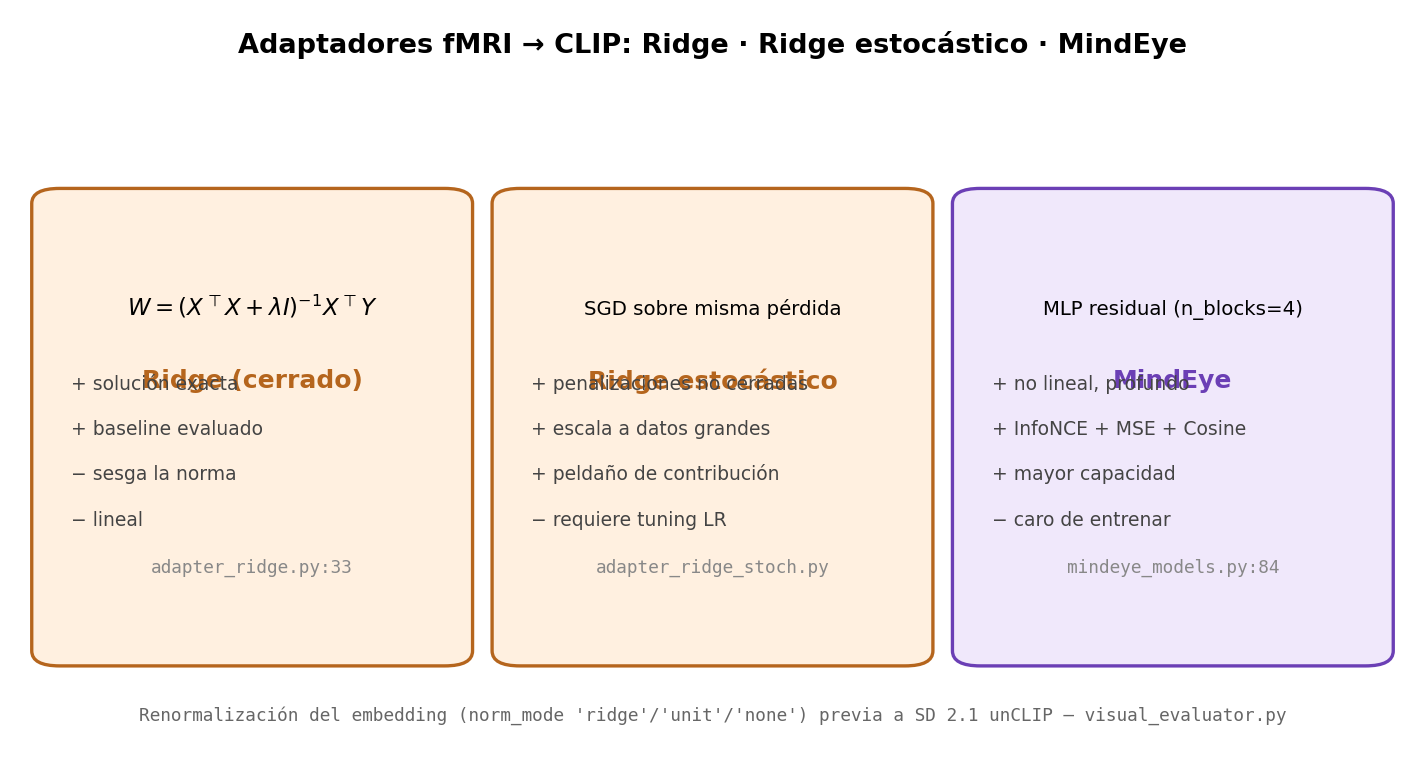
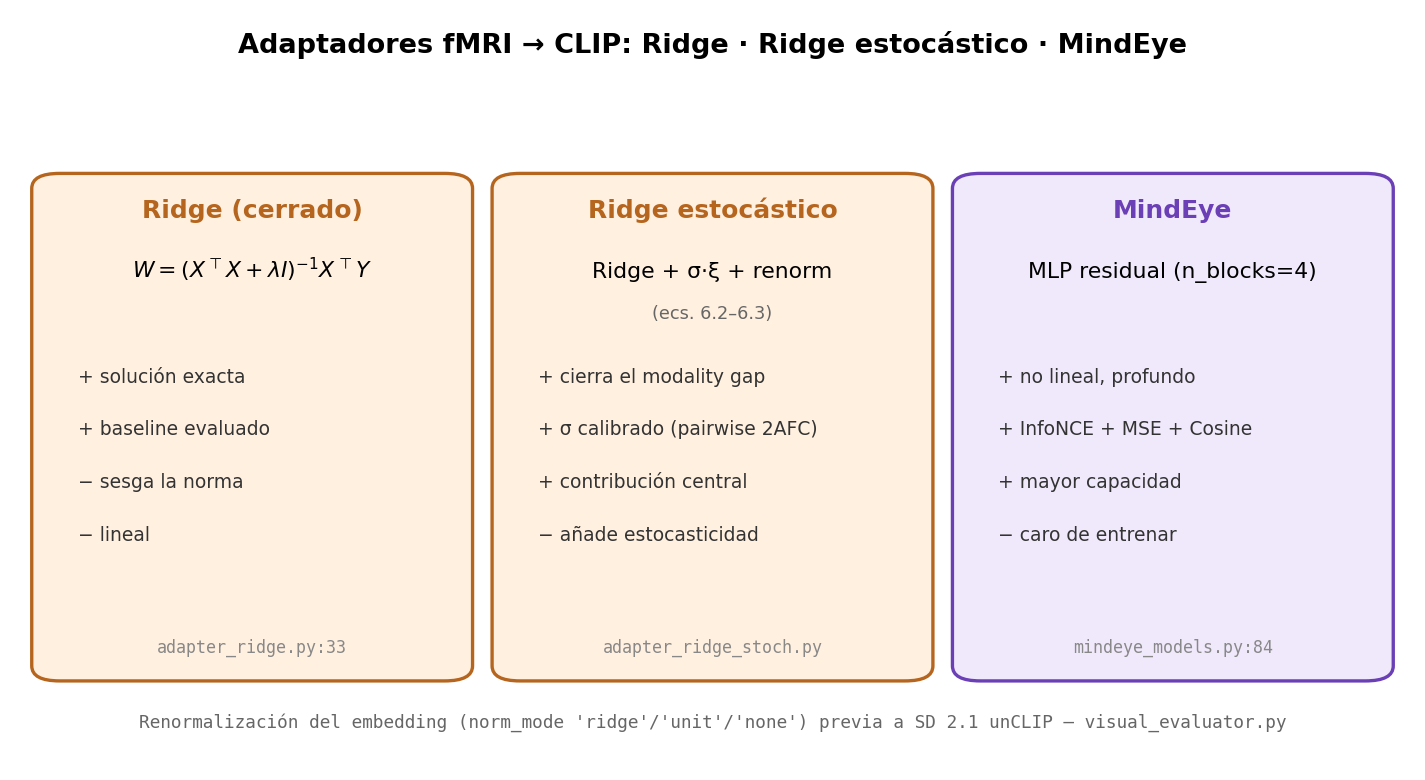
fix(thesis): corrige Ridge estocastico (no SGD) + captions C desde Deep Research

diff --git a/src/make_appendix_diagrams.py b/src/make_appendix_diagrams.py
@@ -229,28 +229,42 @@ def diagram_ridge_vs_mindeye():
     fig, ax = _canvas(12, 6.5)
     ax.text(0.5, 0.95, "Adaptadores fMRI → CLIP: Ridge · Ridge estocástico · MindEye",
             ha="center", fontsize=13, fontweight="bold")
-    w, h, y = 0.30, 0.62, 0.14
+    w, h, y = 0.30, 0.66, 0.12
     xs = [0.02, 0.35, 0.68]
-    _box(ax, xs[0], y, w, h, "Ridge (cerrado)",
-         None, "adapter_ridge.py:33", "adapt", fs=12)
-    ax.text(xs[0] + w / 2, 0.60, r"$W=(X^\top X+\lambda I)^{-1}X^\top Y$",
-            ha="center", fontsize=11)
-    for i, t in enumerate(["+ solución exacta", "+ baseline evaluado",
-                            "− sesga la norma", "− lineal"]):
-        ax.text(xs[0] + 0.02, 0.50 - i * 0.06, t, fontsize=9, color="#444444")
-    _box(ax, xs[1], y, w, h, "Ridge estocástico",
-         None, "adapter_ridge_stoch.py", "adapt", fs=12)
-    ax.text(xs[1] + w / 2, 0.60, "SGD sobre misma pérdida", ha="center", fontsize=9.5)
-    for i, t in enumerate(["+ penalizaciones no cerradas", "+ escala a datos grandes",
-                           "+ peldaño de contribución", "− requiere tuning LR"]):
-        ax.text(xs[1] + 0.02, 0.50 - i * 0.06, t, fontsize=9, color="#444444")
-    _box(ax, xs[2], y, w, h, "MindEye",
-         None, "mindeye_models.py:84", "sd", fs=12)
-    ax.text(xs[2] + w / 2, 0.60, "MLP residual (n_blocks=4)", ha="center", fontsize=9.5)
-    for i, t in enumerate(["+ no lineal, profundo", "+ InfoNCE + MSE + Cosine",
-                           "+ mayor capacidad", "− caro de entrenar"]):
-        ax.text(xs[2] + 0.02, 0.50 - i * 0.06, t, fontsize=9, color="#444444")
-    ax.text(0.5, 0.06,
+
+    def _panel(x, kind, title, formula, extra, bullets, ref):
+        face, edge = C[kind]
+        ax.add_patch(FancyBboxPatch(
+            (x, y), w, h, boxstyle="round,pad=0.008,rounding_size=0.02",
+            linewidth=1.6, edgecolor=edge, facecolor=face))
+        cx = x + w / 2
+        ax.text(cx, y + h - 0.05, title, ha="center", fontsize=12,
+                fontweight="bold", color=edge)
+        ax.text(cx, y + h - 0.13, formula, ha="center", fontsize=10.5)
+        if extra:
+            ax.text(cx, y + h - 0.185, extra, ha="center", fontsize=8.5,
+                    color="#666666")
+        for i, t in enumerate(bullets):
+            ax.text(x + 0.025, y + h - 0.27 - i * 0.07, t, fontsize=9,
+                    color="#333333")
+        ax.text(cx, y + 0.03, ref, ha="center", fontsize=8,
+                family="monospace", color=C["code"][1])
+
+    _panel(xs[0], "adapt", "Ridge (cerrado)",
+           r"$W=(X^\top X+\lambda I)^{-1}X^\top Y$", None,
+           ["+ solución exacta", "+ baseline evaluado",
+            "− sesga la norma", "− lineal"], "adapter_ridge.py:33")
+    _panel(xs[1], "adapt", "Ridge estocástico",
+           "Ridge + σ·ξ + renorm", "(ecs. 6.2–6.3)",
+           ["+ cierra el modality gap", "+ σ calibrado (pairwise 2AFC)",
+            "+ contribución central", "− añade estocasticidad"],
+           "adapter_ridge_stoch.py")
+    _panel(xs[2], "sd", "MindEye",
+           "MLP residual (n_blocks=4)", None,
+           ["+ no lineal, profundo", "+ InfoNCE + MSE + Cosine",
+            "+ mayor capacidad", "− caro de entrenar"], "mindeye_models.py:84")
+
+    ax.text(0.5, 0.05,
             "Renormalización del embedding (norm_mode 'ridge'/'unit'/'none') "
             "previa a SD 2.1 unCLIP — visual_evaluator.py",
             ha="center", fontsize=8.5, color="#666666", family="monospace")

diff --git a/AlvaroTaipe_Plantilla/Appendix/AppendixC.tex b/AlvaroTaipe_Plantilla/Appendix/AppendixC.tex
@@ -24,19 +24,28 @@ CLIP. Los esquemas se derivan del código y la teoría vía DeepWiki.
 % ---------------------------------------------------------------------------
 
 \dwfig{Figures/deepwiki/proceso_difusion.png}
-  {Proceso de difusión de SD~2.1 unCLIP. El forward agrega ruido gaussiano en
-   $T$ pasos hasta $x_T\sim\mathcal{N}(0,I)$; el reverse, guiado por el embedding
-   CLIP predicho desde fMRI y por \emph{classifier-free guidance}
-   (\texttt{guidance\_scale}$=8.0$ en \texttt{src/config.py::SD\_CONFIG}),
-   reconstruye la imagen. Implementado en \texttt{src/sd\_decoder.py}.}
+  {El proceso inverso de difusión parte de ruido gaussiano en el espacio latente
+   del UNet y lo \emph{denoisea} iterativamente ($75$ pasos,
+   \texttt{config.SD\_CONFIG}), condicionado por el embedding CLIP ViT-L/14
+   (768-d) predicho desde fMRI, que se inyecta vía \texttt{image\_embeds}
+   saltando el \texttt{image\_encoder} del pipeline. El \emph{classifier-free
+   guidance} (escala $8.0$) combina la predicción condicionada por el embedding
+   cerebral con un \texttt{negative\_prompt} fijo, amplificando la señal visual
+   sin introducir contenido semántico externo; el VAE decodifica el resultado a
+   una imagen 768$\times$768. Implementado en \texttt{sd\_decoder.py}.}
   {fig:proceso_difusion}
 
 \dwfig{Figures/deepwiki/ridge_vs_mindeye.png}
-  {Comparación de los tres adaptadores fMRI$\rightarrow$CLIP: Ridge de solución
-   cerrada $(X^\top X+\lambda I)^{-1}X^\top Y$
-   (\texttt{phase2/adapter\_ridge.py}), Ridge estocástico por SGD
-   (\texttt{phase2/adapter\_ridge\_stoch.py}, peldaño de contribución) y backbone
-   MindEye con pérdida InfoNCE (\texttt{phase2/mindeye\_models.py}). Se resalta la
-   renormalización del embedding (\texttt{norm\_mode} en
-   \texttt{visual\_evaluator.py}) previa a SD~2.1 unCLIP.}
+  {Comparación de los tres adaptadores fMRI$\rightarrow$CLIP.
+   \textbf{Ridge cerrado} (\texttt{adapter\_ridge.py}): resuelve $Y=XW$ en forma
+   cerrada con regularización L2 ($\alpha{=}60000$); captura solo correlaciones
+   lineales, aplanando la magnitud de las predicciones.
+   \textbf{Ridge estocástico} (\texttt{adapter\_ridge\_stoch.py}, contribución
+   central): suma una perturbación gaussiana isotrópica $\sigma\xi$ y renormaliza
+   a la hiperesfera unidad (ecs.~6.2--6.3), con $\sigma$ calibrado en validación
+   maximizando \emph{pairwise accuracy} 2AFC (no MSE).
+   \textbf{MindEye} (\texttt{mindeye\_models.py}): MLP residual (4 bloques de
+   ancho 4096, pre-LayerNorm + GELU + dropout) entrenada con pérdida híbrida
+   InfoNCE bidireccional + MSE + cosine, que aprende la geometría del manifold
+   CLIP.}
   {fig:ridge_vs_mindeye}